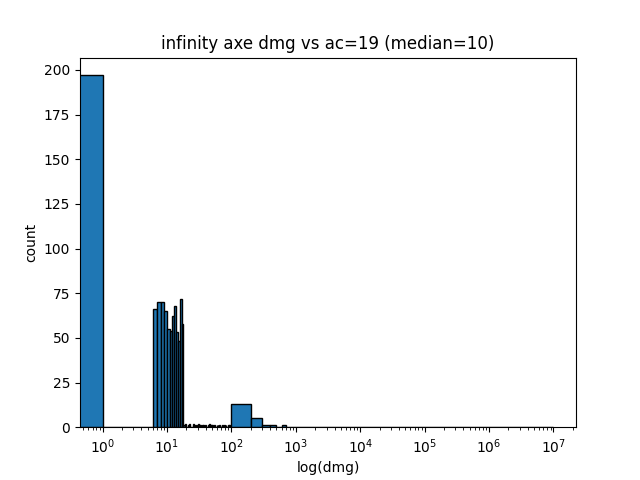
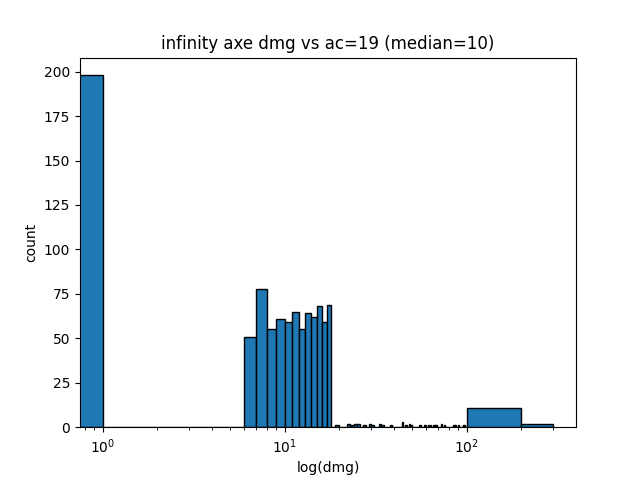
update

diff --git a/infinity_axe.py b/infinity_axe.py
@@ -1,4 +1,4 @@
-import random, sys, numpy
+import random, sys, numpy, math
 import matplotlib.pyplot as plt
 
 sys.setrecursionlimit(5000)
@@ -92,19 +92,25 @@ def inf_axe_attack(hit_dc, enemy_ac, advantage=False, verbose=True):
     return tot_dmg
 
 def get_bins():
-    out = list(range(0,101))
-    for e in range(2, 7):
-        for i in range(10**e, 10**(e+1)+1):
-            if i % (10**e) == 0:
-                out.append(i)
+    out = list(range(0, 101))
+    for e in range(2, 10):
+        for i in range(1, 11):
+            out.append(i*(10**e))
     return sorted(list(set(out)))
 
+def get_log_bins():
+    return [x/10 for x in range(100)]
+
+def trim_bins(bins, data):
+    return [x for x in bins if x <= max(data)+1
+    ]
 enemy_acs = range(15,22)
 hit_dc = 9
 advantage = True
 trials = 1000
 verbose = False
 bins = get_bins()
+log_bins = get_log_bins()
 
 for enemy_ac in enemy_acs:
     data = []
@@ -113,9 +119,10 @@ for enemy_ac in enemy_acs:
         if verbose:
             print("************")
 
-    data = sorted(data)
     average = numpy.average(data)
     median = int(numpy.median(data))
+    data = sorted(data)
+    log_data = sorted([math.log(x, 10) if x > 0 else 0 for x in data])
 
     print(f"ENEMY AC: {enemy_ac}")
     print(f"PLAYER HIT DC: {hit_dc}")
@@ -124,7 +131,7 @@ for enemy_ac in enemy_acs:
     print("************")
 
     fig, ax = plt.subplots()
-    ax.hist(data, bins=bins, ec="k")
+    ax.hist(data, bins=trim_bins(bins, data), ec="k")
     ax.locator_params(axis="y", integer=True)
     ax.locator_params(axis="x", integer=True)
     ax.set_xscale('log')
@@ -132,3 +139,12 @@ for enemy_ac in enemy_acs:
     ax.set_xlabel('log(dmg)')
     ax.set_title(f"infinity axe dmg vs ac={enemy_ac} (median={median})")
     plt.savefig(f"ac_{enemy_ac}.png")
+
+    fig, ax = plt.subplots()
+    ax.hist(log_data, bins=trim_bins(log_bins, log_data), ec="k")
+    ax.locator_params(axis="y", integer=True)
+    ax.locator_params(axis="x", integer=True)
+    ax.set_ylabel('count')
+    ax.set_xlabel('log(dmg)')
+    ax.set_title(f"infinity axe log(dmg) vs ac={enemy_ac} (median={median})")
+    plt.savefig(f"ac_{enemy_ac}_log.png")
